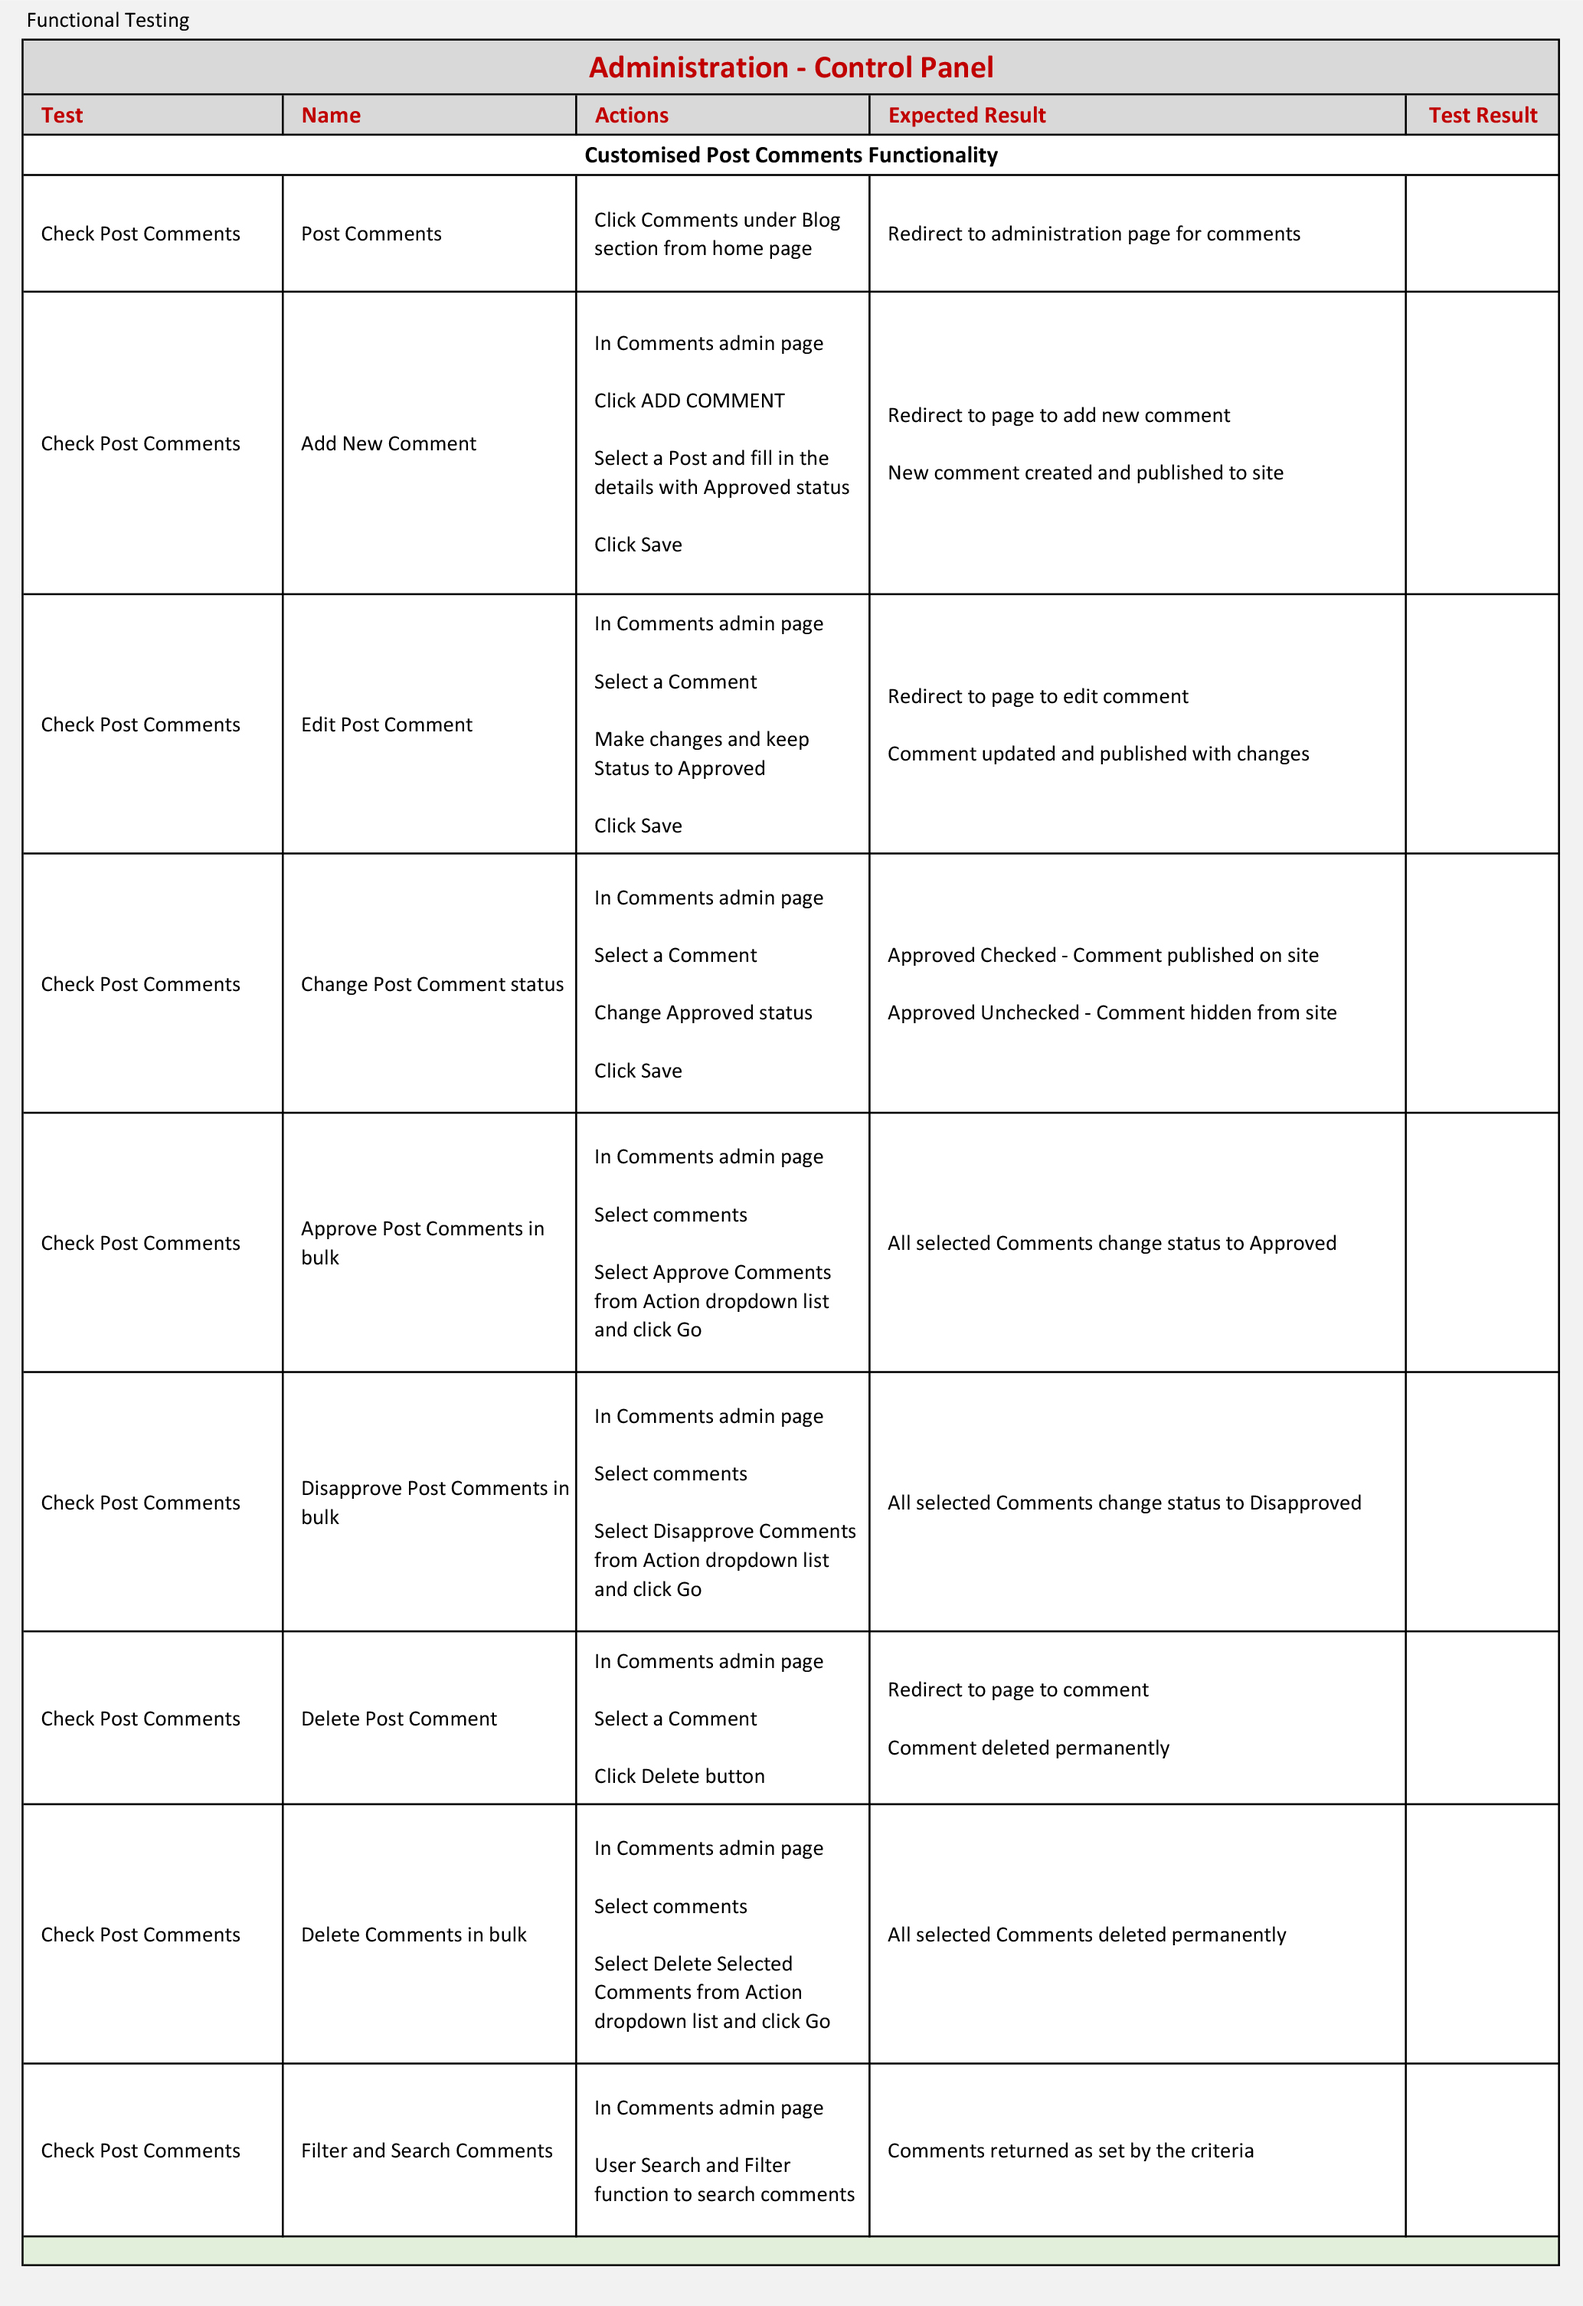
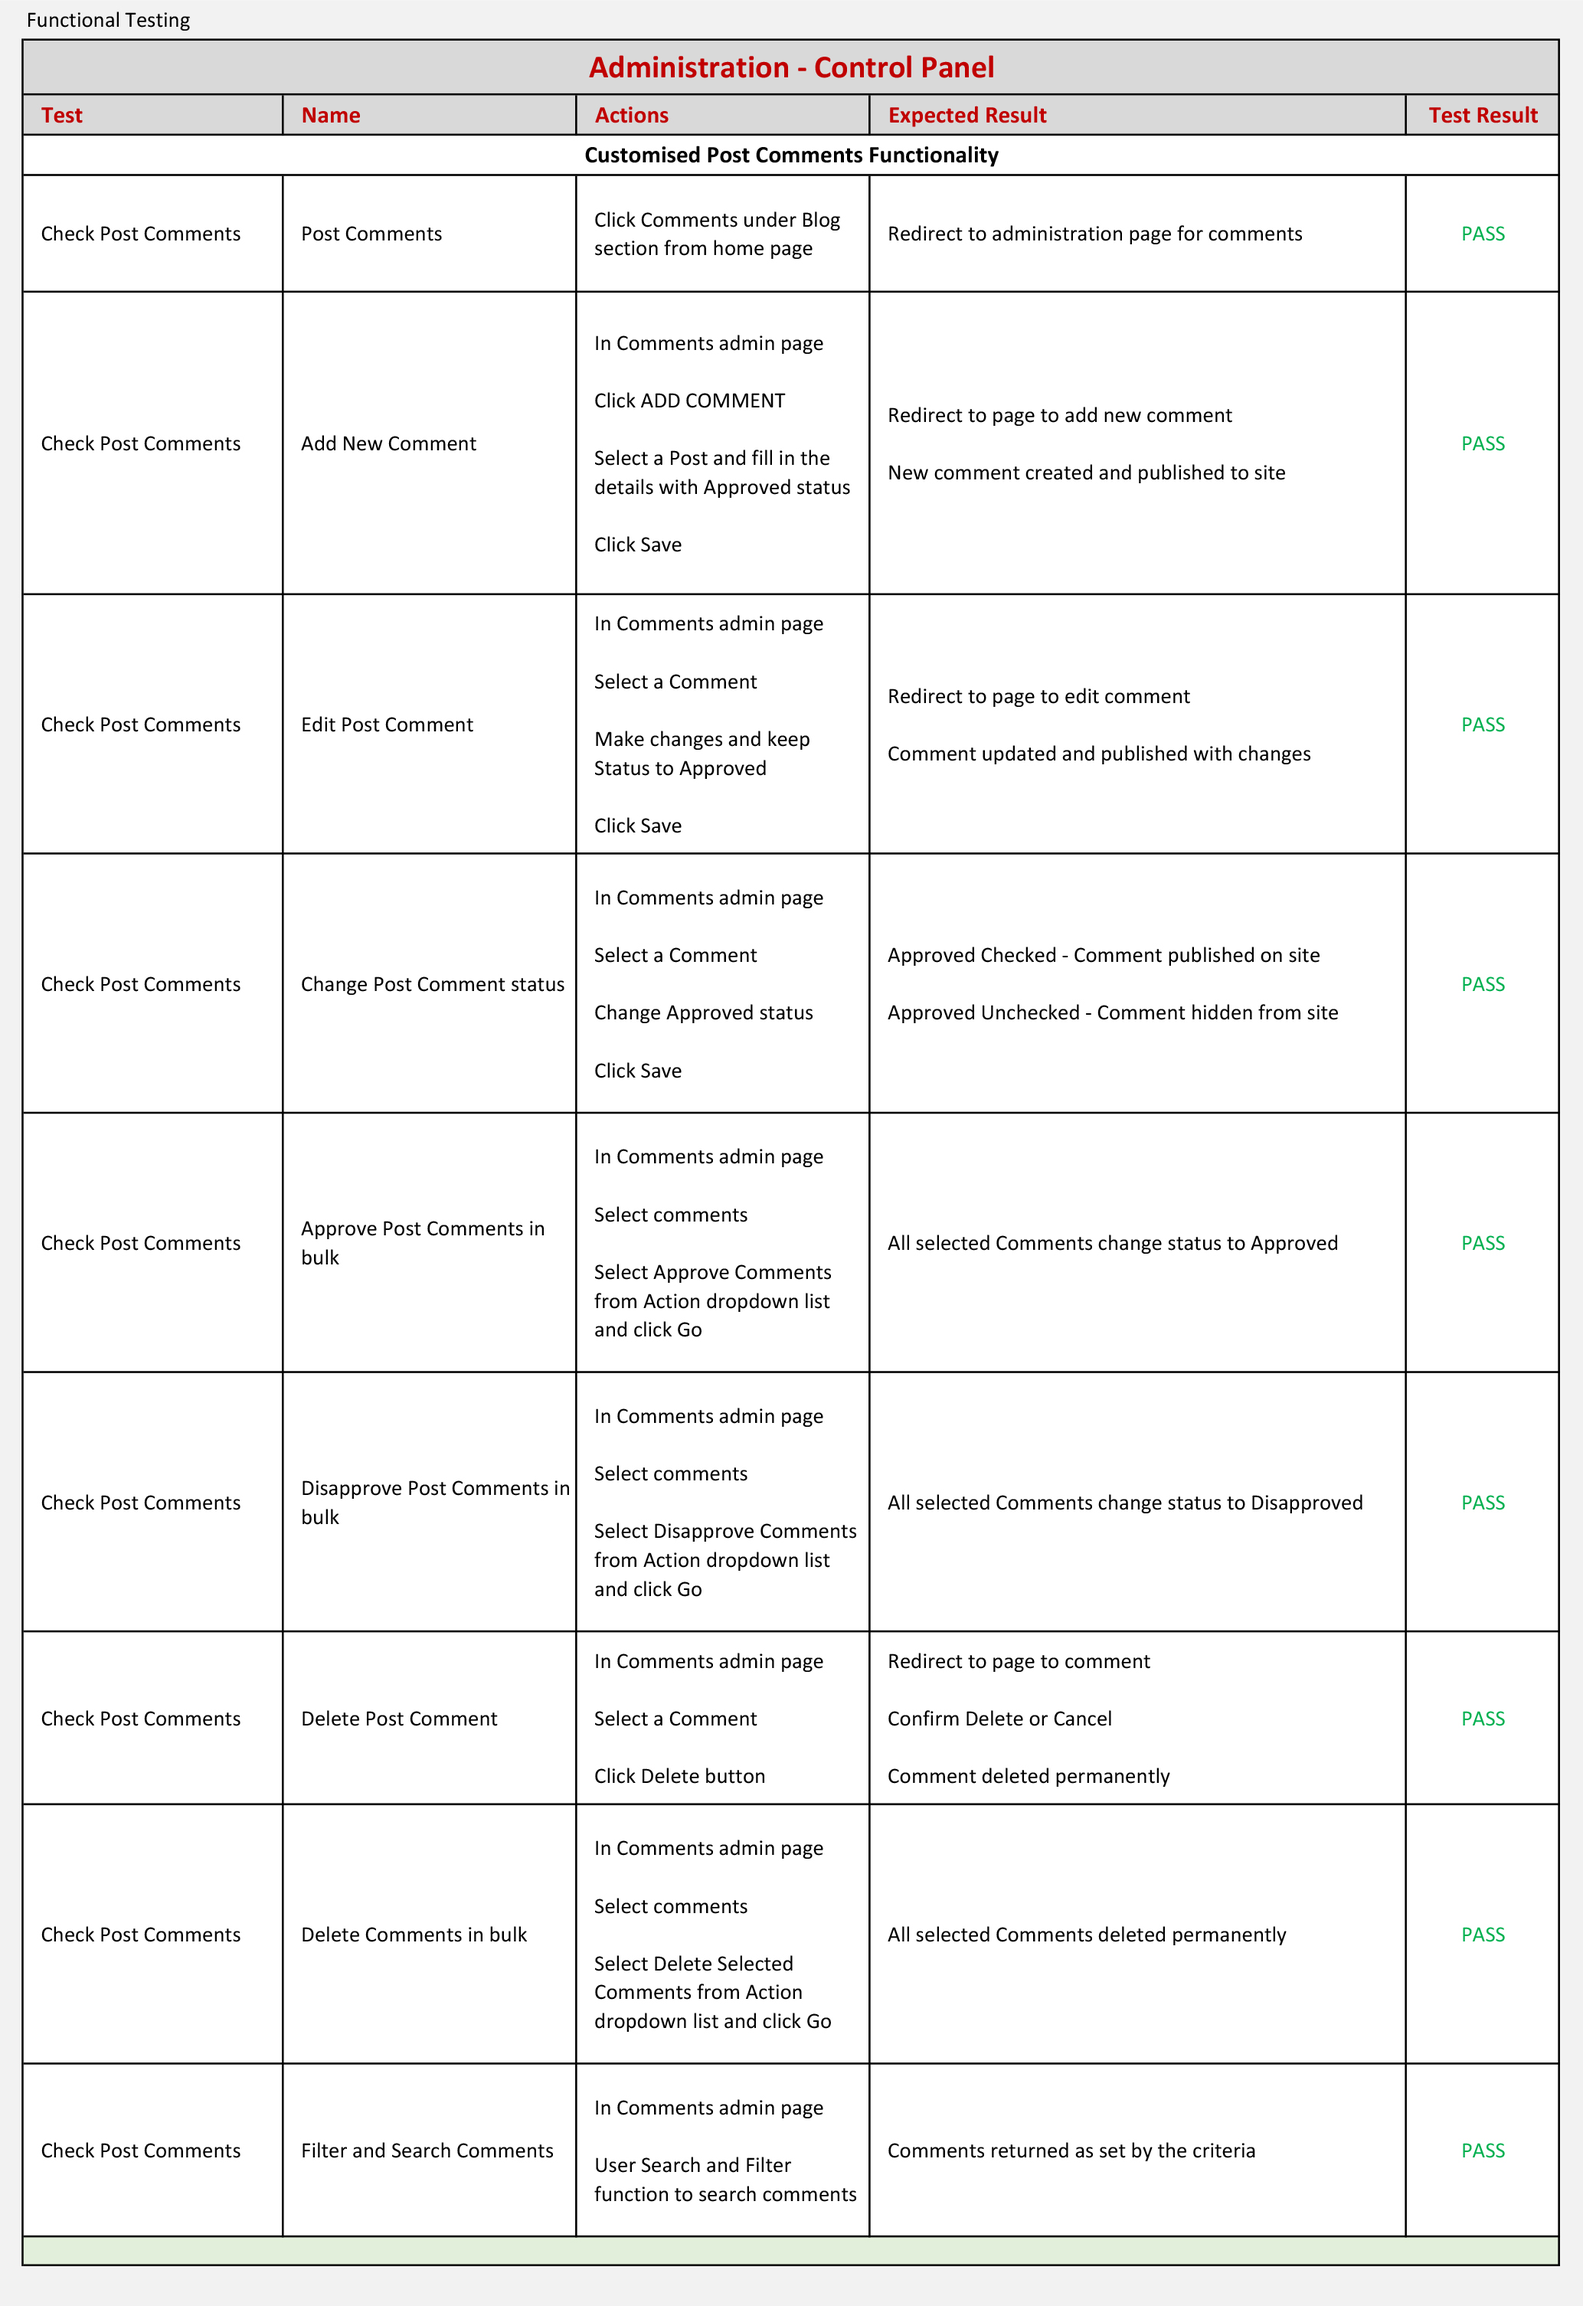
Update manual test reports

diff --git a/readme/testing/testing.md b/readme/testing/testing.md
@@ -2,17 +2,77 @@
 
 The following are the test scripts for manual functional testing.
 
+The test reports ahows all test cases were carried out and passed against the live site.
+
+* [Home Page - Navigation Bar and Page Footer for All Users](#home-page---navigation-bar-and-page-footer-for-all-users)
+* [Home Page - Page Functionality for All Users](#home-page---page-functionality-for-all-users)
+* [Home Page - Users Registration, Sign In and Sign Out](#home-page---users-registration-sign-in-and-sign-out)
+* [About and Contact Us Page](#about-and-contact-us-page)
+* [User Profile Page](#user-profile-page)
+* [Post's Detail - Page Functionality for All Users](#posts-detail---page-functionality-for-all-users)
+* [Post's Detail - Page Functionality for Registered and Signed In users](#posts-detail---page-functionality-for-registered-and-signed-in-users)
+* [New Post - Page Functionality for Registered and Signed In users](#new-post---page-functionality-for-registered-and-signed-in-users)
+* [URL Security Tests](#url-security-tests)
+* [Responsive Tests](#responsive-tests)
+* [Administration Control Panel - Site Access](#administration-control-panel---site-access)
+* [Administration Control Panel - Customised Blog Posts Functionality](#administration-control-panel---customised-blog-posts-functionality)
+* [Administration Control Panel - Customised Post Comments Functionality](#administration-control-panel---customised-post-comments-functionality)
+* [Administration Control Panel - Other Functionality](#administration-control-panel---other-functionality)
+
+---
+
+### Home Page - Navigation Bar and Page Footer for All Users
+
 ![manual-testing-1](/readme/testing/testing-1.jpg)
+
+### Home Page - Page Functionality for All Users
+
 ![manual-testing-2](/readme/testing/testing-2.jpg)
+
+### Home Page - Users Registration, Sign In and Sign Out
+
 ![manual-testing-3](/readme/testing/testing-3.jpg)
+
+### About and Contact Us Page
+
 ![manual-testing-4](/readme/testing/testing-4.jpg)
+
+### User Profile Page
+
 ![manual-testing-5](/readme/testing/testing-5.jpg)
+
+### Post's Detail - Page Functionality for All Users
+
 ![manual-testing-6](/readme/testing/testing-6.jpg)
+
+### Post's Detail - Page Functionality for Registered and Signed In users
+
 ![manual-testing-7](/readme/testing/testing-7.jpg)
+
+### New Post - Page Functionality for Registered and Signed In users
+
 ![manual-testing-8](/readme/testing/testing-8.jpg)
+
+### URL Security Tests
+
 ![manual-testing-9](/readme/testing/testing-9.jpg)
+
+### Responsive Tests
+
 ![manual-testing-10](/readme/testing/testing-10.jpg)
+
+### Administration Control Panel - Site Access
+
 ![manual-testing-11](/readme/testing/testing-11.jpg)
+
+### Administration Control Panel - Customised Blog Posts Functionality
+
 ![manual-testing-12](/readme/testing/testing-12.jpg)
+
+### Administration Control Panel - Customised Post Comments Functionality
+
 ![manual-testing-13](/readme/testing/testing-13.jpg)
+
+### Administration Control Panel - Other Functionality
+
 ![manual-testing-14](/readme/testing/testing-14.jpg)
